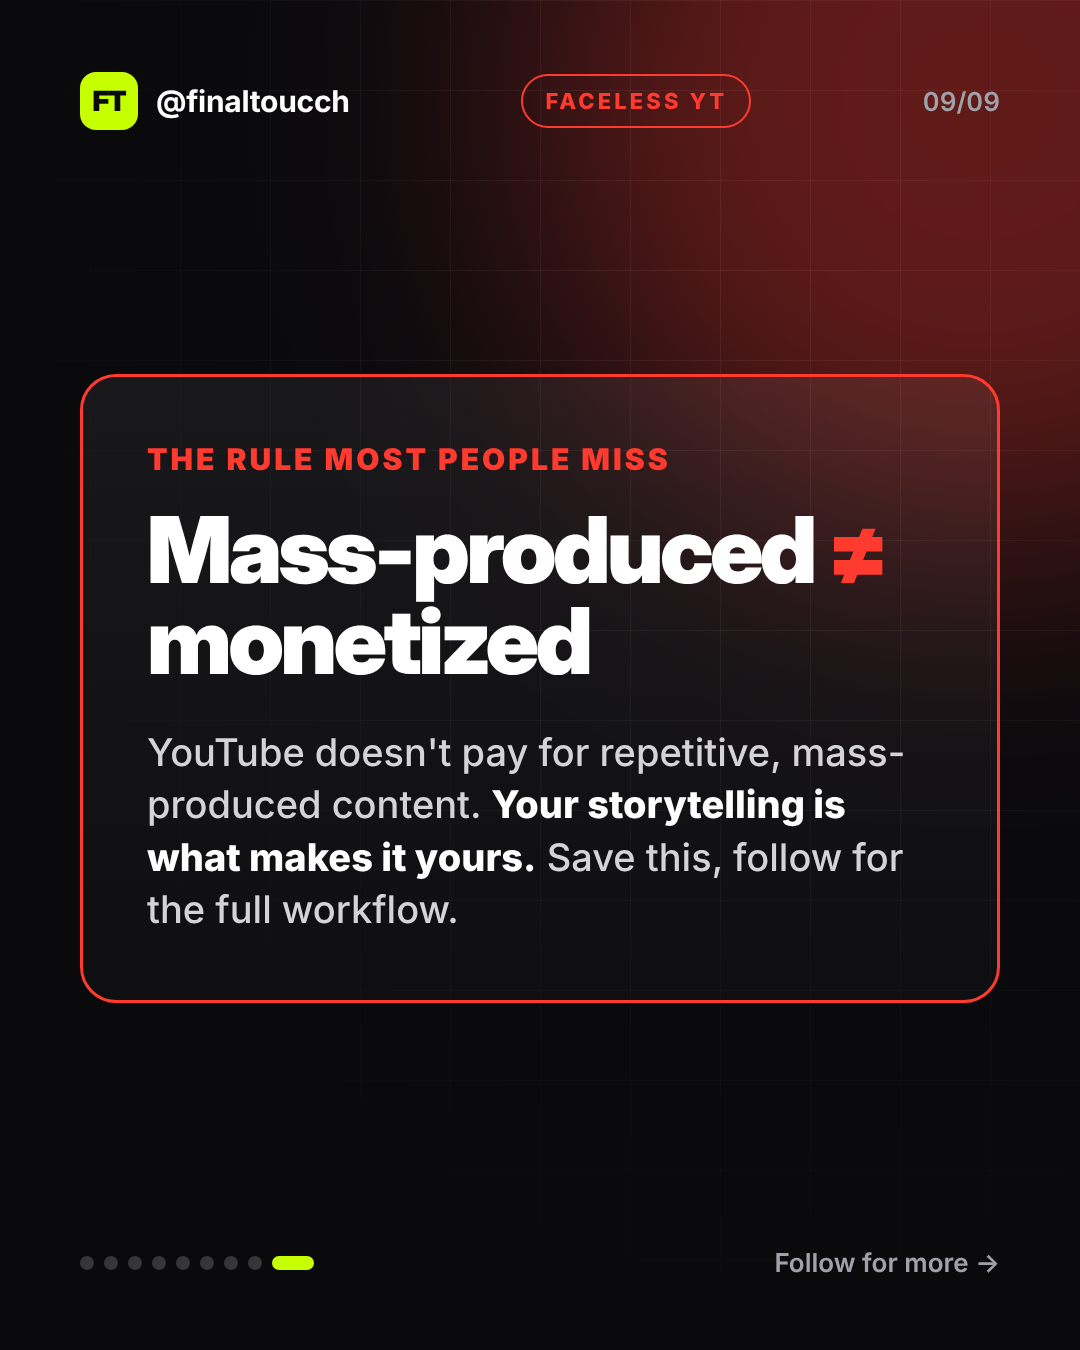
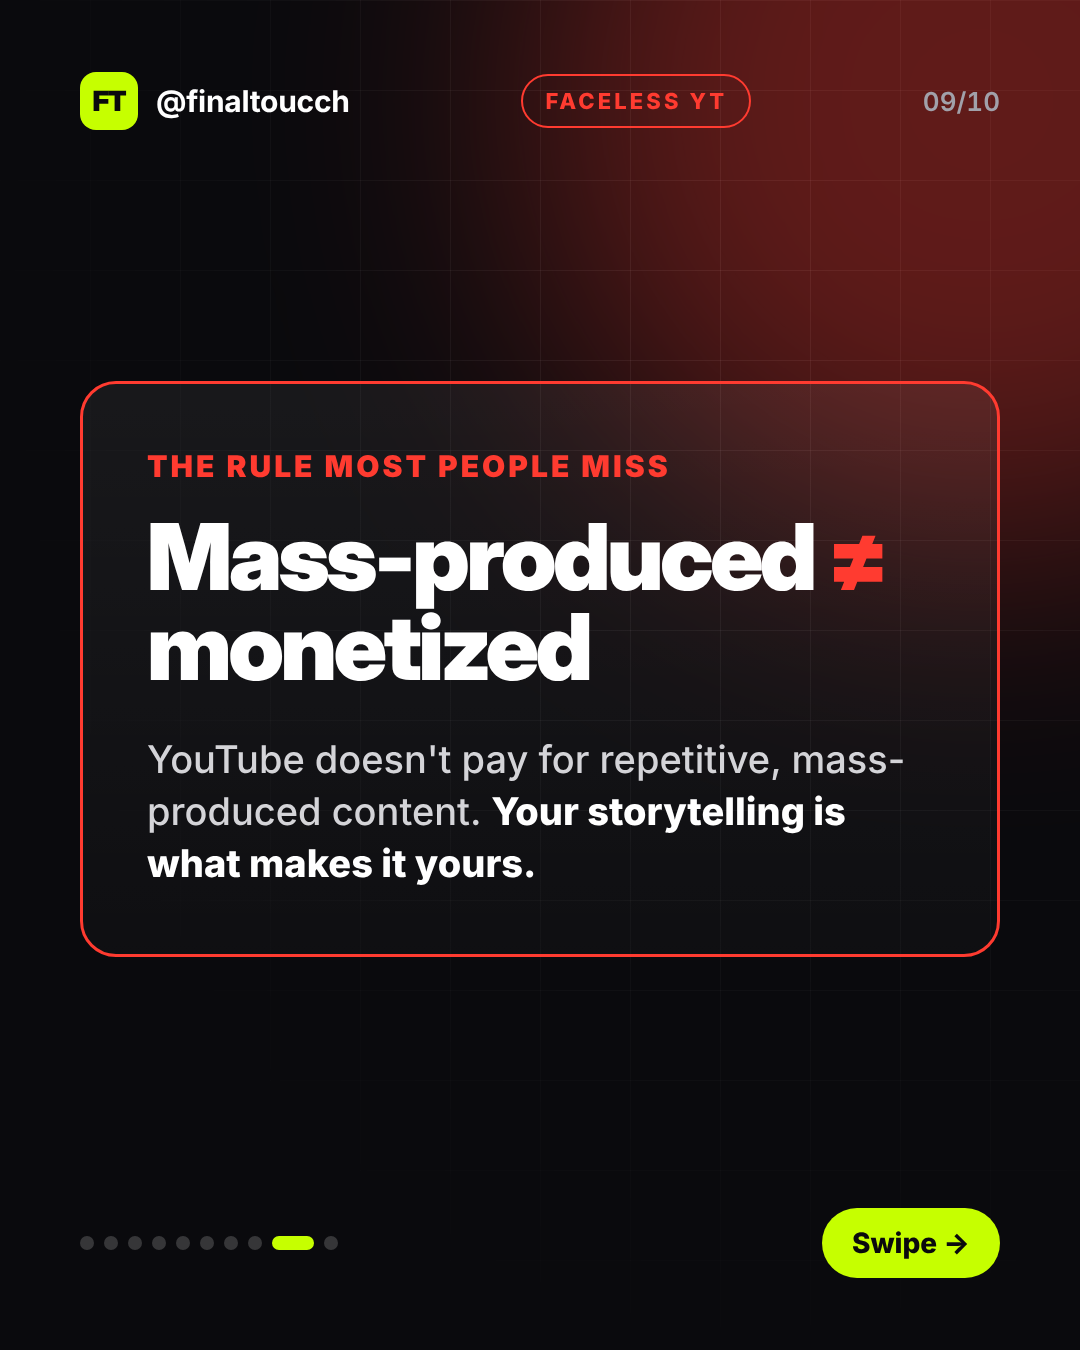
Add Week 01 production pack and comment-keyword CTA slides
Shot-by-shot Seedance prompts, scripts, captions and ManyChat DM copy
for each Week 1 post; carousels now end on CLIENT / STORY keyword CTAs.

Claude-Session: https://claude.ai/code/session_01SBa4jWjvQhps8u74nbGxqF

diff --git a/instagram/week-01-production.md b/instagram/week-01-production.md
@@ -1,0 +1,147 @@
+# Week 01 — Production Pack (best quality)
+
+Everything needed to produce Week 1. Generation runs in Higgsfield with your `okoye` face element
+(`16f2a137-e826-4f98-ace2-112924a73993`).
+
+**Models:** covers and frames use **Nano Banana Pro 4K** (4 credits each). Video uses **Seedance 2.5, 1080p, 9:16** (12 credits per second), starting from the approved cover as the first frame.
+**Course placeholders:** `[COURSE NAME]` and `[COURSE LINK]` get filled in once you send them.
+**Draft covers already generated (1K, for approval):** Mon `df58bc4c`, Tue `a50e50b7`, Wed `fbcbdefb`, Thu `10b3efe9`, Fri `2ca11acd`.
+
+---
+
+## MON — 🎬 "Higgsfield / Camera ×3" Reel (15s)
+
+**Hook text on screen 0:00:** `This shot cost me $0`
+**Cover:** you mid-air jumping off a Lagos rooftop at sunset, drone orbiting. Text: **Higgsfield** / *Camera* ×3 (lime echo stack).
+
+| Shot | Time | Seedance 2.5 prompt (start frame noted) | On-screen text |
+|---|---|---|---|
+| 1 | 0–5s | **Start: Mon cover.** *He leaps off the rooftop edge in slow motion, arms spread, while the camera orbits 180° around him at the same height; sunset flare sweeps across the lens; city skyline rotates behind; shirt ripples in the wind; photorealistic, cinematic, 1080p.* | `Move 1: ORBIT` |
+| 2 | 5–10s | **Start: new 4K frame** of you standing on the rooftop at dusk, facing the camera. *Fast crash-zoom from a wide shot of the whole rooftop straight into his face; he lowers his glasses and smirks; slight motion blur; handheld energy; photorealistic.* | `Move 2: CRASH ZOOM` |
+| 3 | 10–15s | **Start: new 4K frame** of a high aerial view over the Lagos rooftops with you on the ledge. *FPV drone dives from high above the city, races down the building and pulls up beside him as he turns to the lens and points at the camera; golden hour; photorealistic.* | `Move 3: FPV DIVE` → `Comment CAMERA 👇` |
+
+**Voiceover** (your own voice recommended, ~35 words):
+> "This shot cost me zero dollars. No drone, no camera crew — just AI. Three camera moves make any AI video look expensive: orbit, crash zoom, FPV dive. Comment CAMERA and I'll send you all my prompts."
+
+**Caption:**
+> No drone. No crew. No budget. 🎬
+> Three camera moves that make AI video look like a movie: orbit, crash zoom, FPV dive.
+> 💬 Comment **CAMERA** and I'll DM you my exact prompts.
+> 📌 Save this for your next project.
+
+**Hashtags:** `#finaltoucch #higgsfield #aivideo #seedance #aifilm #cinematic #aitools`
+
+**DM sent to commenters (ManyChat, keyword CAMERA):**
+> Hey! 🎬 Here are my 3 camera-move prompts: [PROMPT PACK LINK]
+> These come from the camera module of **[COURSE NAME]**, where I show the full workflow: making the shots, editing, and selling AI videos to clients. Have a look 👉 [COURSE LINK]
+
+---
+
+## TUE — 🖼 "Upwork vs Contra" carousel (8 slides)
+
+**Cover (slide 1):** you as a boxing referee raising both fighters' arms (green vs black). Text: **Upwork** vs **Contra**.
+**Slides 2–8:** already designed (`week-01/tue-upwork-vs-contra/`). Last slide updated with the comment CTA.
+
+**Caption:**
+> Upwork or Contra? Wrong question. Use both 🥊
+> Contra = your portfolio. Upwork = your job board.
+> 💬 Comment **CLIENT** and I'll send you my Upwork proposal template.
+> 📌 Save this before you sign up.
+
+**Hashtags:** `#finaltoucch #upwork #contra #freelancing #remotework #freelancetips #aiservices`
+
+**DM (keyword CLIENT):**
+> Here's my proposal template 💼 [TEMPLATE LINK]
+> Getting the client is step one. Pricing AI video work and delivering it is all inside **[COURSE NAME]** 👉 [COURSE LINK]
+
+---
+
+## WED — 🗣 "Day 1" UGC (15s, you talking to camera)
+
+**Cover:** you on the Lagos balcony, phone in hand, mic clipped. Text: **Day 1** / *Building* ×3.
+
+| Shot | Time | Seedance 2.5 prompt |
+|---|---|---|
+| 1 | 0–15s | **Start: Wed cover.** *He talks directly to the camera with natural hand gestures and a friendly confident smile, slight handheld phone-camera movement, soft afternoon daylight, city ambience, natural lip movement matching speech, realistic creator-video look.* Dialogue = script below. |
+
+**Script (~38 words, 15s):**
+> "I'm Okoye. I use AI to make videos, design brands, and land remote clients — from Lagos, paid in dollars. Every day on this page I'll show you exactly how. If that's what you want too… follow. Day one starts now."
+
+⚠ **Realism note:** Seedance generates a voice, but it won't be *your* voice. Two better options:
+1. **Best:** record this script on your phone (real you, real voice). Real UGC builds the most trust, and it costs 0 credits.
+2. Record just your voice, and I'll generate the video to match your audio.
+
+**Caption:**
+> Day 1 of building @finaltoucch in public 🌍
+> AI videos. Design. Remote clients. Paid in dollars.
+> I'll show you everything I learn. Follow along.
+> (Want the full roadmap? It's in my course → link in bio.)
+
+**Hashtags:** `#finaltoucch #buildinpublic #aicreator #remotework #lagos #africancreatives #aivideo`
+
+---
+
+## THU — 🎬 "AI Ads / $0 Budget" Reel (15s)
+
+**Hook text 0:00:** `Brands pay $1,000 for this. I made it with AI.`
+**Cover:** you pushing an amber perfume bottle at the lens, smoke and light beams. Text: **AI Ads** / *$0 Budget* ×3.
+
+| Shot | Time | Seedance 2.5 prompt | On-screen text |
+|---|---|---|---|
+| 1 | 0–5s | **Start: new 4K frame** of an amber luxury perfume bottle on black stone, smoke, no people. *Slow push-in as golden light sweeps across the glass, smoke curls around it, droplets of mist hang in the air, macro detail, luxury commercial look, photorealistic.* | `Step 1: the product shot` |
+| 2 | 5–10s | **Start: Thu cover.** *He pushes the bottle toward the lens, then pulls it back and sprays it once; mist catches the light beams in slow motion; intense confident look; photorealistic commercial.* | `Step 2: add a human` |
+| 3 | 10–15s | **Start: new 4K frame** of the bottle on a reflective surface with blank space above for a logo. *Slow 180° orbit around the bottle as the light turns warm gold, ending on a clean hero shot with empty space for a logo; photorealistic.* | `Step 3: the hero ending` → `Comment AD 👇` |
+
+**Voiceover:**
+> "Brands pay a thousand dollars for an ad like this. I made it with AI, no studio. Product shot, add a human, hero ending. Comment AD and I'll send you the exact prompt."
+
+**Caption:**
+> No studio. No photographer. No budget. 🎬
+> Brands pay real money for product ads like this, and AI just made it accessible.
+> 💬 Comment **AD** and I'll DM you the exact prompt.
+
+**Hashtags:** `#finaltoucch #aiads #productvideo #higgsfield #seedance #aivideo #freelancing`
+
+**DM (keyword AD):**
+> Here's the exact prompt 🎬 [PROMPT LINK]
+> Making the ad is half of it. How I find brands and charge for these is inside **[COURSE NAME]** 👉 [COURSE LINK]
+
+⚠ The "$1,000" figure is a typical asking price for short-form product ads. Change it to what you've actually charged or seen on job posts.
+
+---
+
+## FRI — 🖼 "Faceless Stories" carousel (9 slides)
+
+**Cover (slide 1):** you as a hooded storyteller by a campfire in ruins. Text: **Faceless** / *Stories* ×3.
+**Slides 2–9:** already designed (`week-01/thu-faceless-niches/`). Last slide updated with the comment CTA.
+
+**Caption:**
+> Faceless doesn't mean effortless, but AI makes it 10x faster ▶
+> 6 storytelling niches built for AI. Which one would you start?
+> 💬 Comment **STORY** and I'll send you the niche list plus a starter script.
+
+**Hashtags:** `#finaltoucch #facelessyoutube #aistorytelling #youtubetips #aivideo #contentcreator`
+
+**DM (keyword STORY):**
+> Here's the niche list and a starter script ▶ [LINK]
+> The full faceless channel workflow (script, voice, visuals, monetization) is inside **[COURSE NAME]** 👉 [COURSE LINK]
+
+---
+
+## Credit run sheet (in order, once topped up)
+
+| Step | What | Credits |
+|---|---|---|
+| 1 | Re-make the 5 approved covers in Nano Banana Pro 4K | 20 |
+| 2 | 4 new start frames (Mon ×2, Thu ×2) | 16 |
+| 3 | Mon: 3 × 5s Seedance clips | 180 |
+| 4 | Thu: 3 × 5s Seedance clips | 180 |
+| 5 | Wed: 15s Seedance UGC (skip if you film it yourself) | 180 |
+| 6 | Retakes buffer | ~155 |
+| | **Total** | **~730** (or ~550 if you film Wednesday yourself) |
+
+## Still needed before posting
+
+- Lime headline text on the covers. I add it in code once the images can be downloaded: allow `d8j0ntlcm91z4.cloudfront.net` in the environment's network settings. Or I can generate the headline into the image with Nano Banana Pro.
+- Edit each Reel in CapCut: join the 3 clips, add voiceover, burned-in captions and a sound hit.
+- Course name, price, link and modules → I fill in every `[PLACEHOLDER]` and write the free resources.
